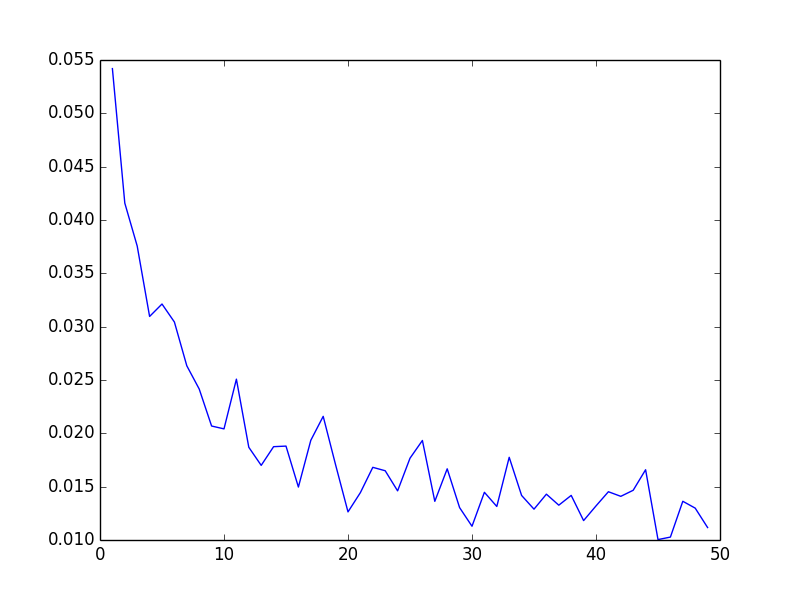
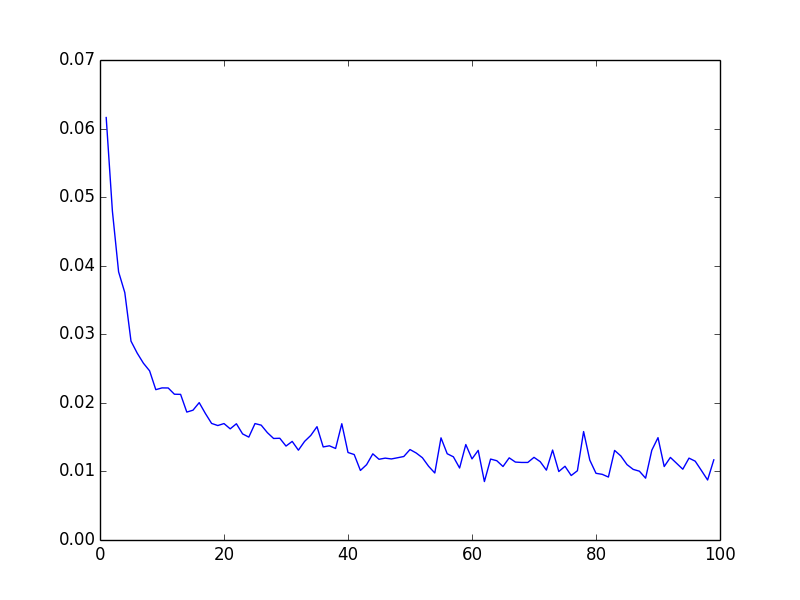
Fix small details

diff --git a/hw3.py b/hw3.py
@@ -4,8 +4,8 @@ import matplotlib.pyplot as plt
 
 theta = 1
 sampleSize = 100
-max_k = 50
-seriesNumber = 50
+max_k = 100
+seriesNumber = 100
 
 def getEstimatedUniform(k):
     m_k = 0
@@ -19,9 +19,9 @@ def getEstimatedExponential(k):
     for x in np.random.exponential(theta, sampleSize) :
         m_k = m_k + x ** k
     m_k = m_k / sampleSize
-    return (m_k / math.factorial(k)) ** (1.0 / k) 
-
-def generate():
+    return (m_k / math.factorial(k)) ** (1.0 / k)
+    
+if __name__ == '__main__':
     resultsExponential = []
     resultsUniform = []
     for k in range(1, max_k) :
@@ -37,6 +37,3 @@ def generate():
     plt.clf()
     plt.plot(range(1, max_k), resultsExponential)
     plt.savefig("exponential.png")
-    
-if __name__ == '__main__':
-    generate()
